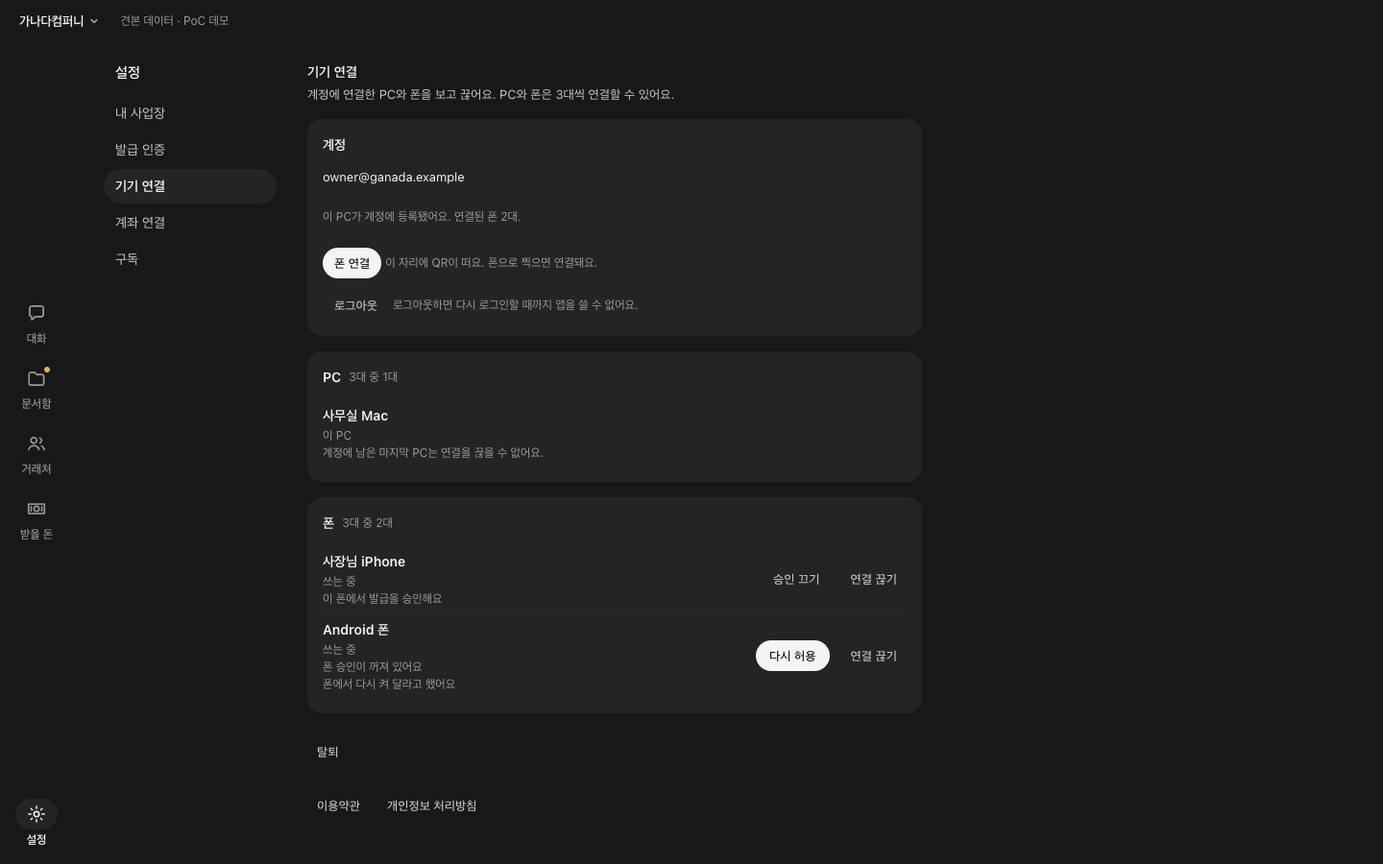
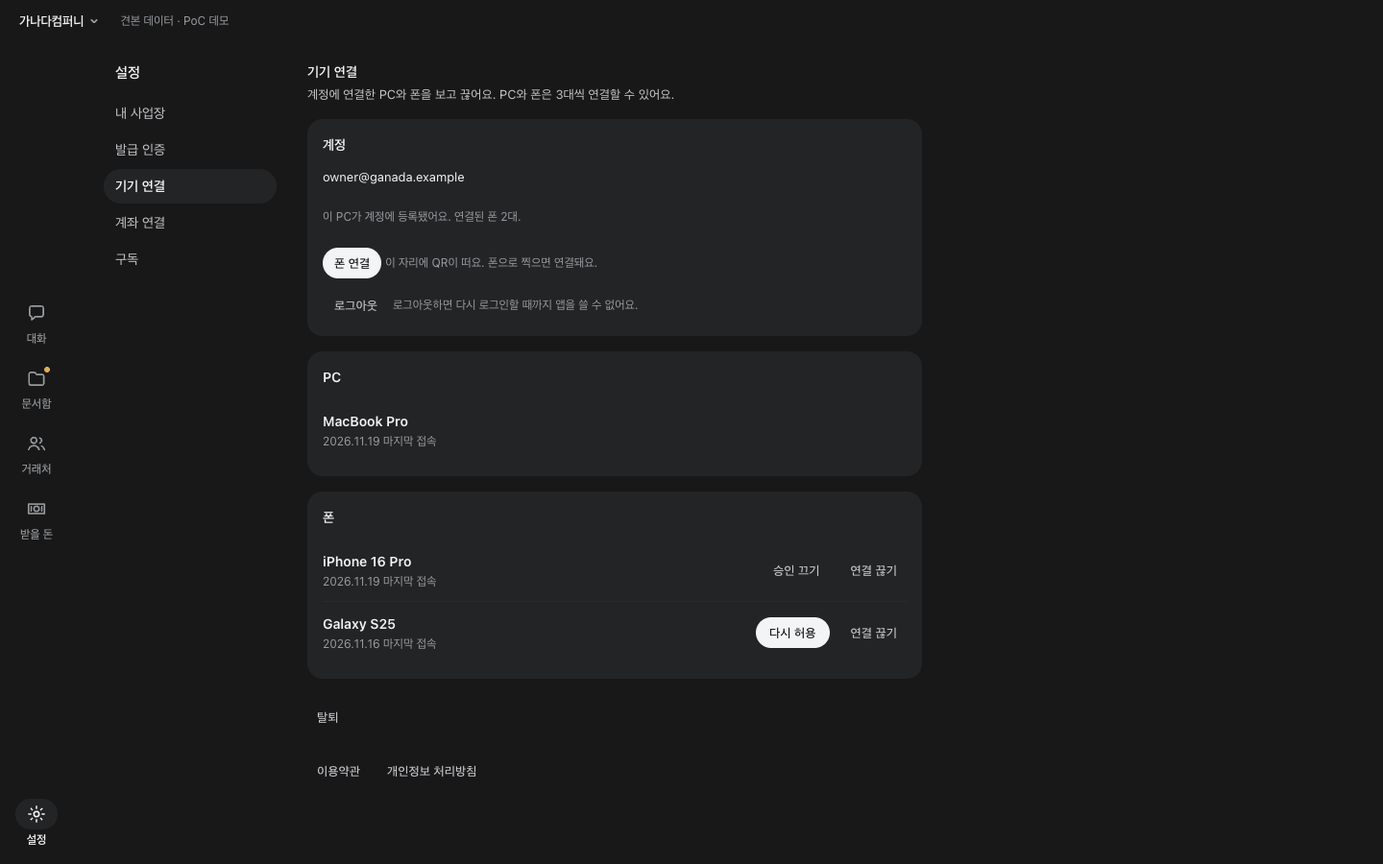
기기 목록: 이름과 마지막 접속일만, 이름은 모델 이름으로
- 줄마다 기기 이름(모델 이름) + 'YYYY.MM.DD 마지막 접속'. '쓰는 중'·'이 PC'·승인 상태 글·개수는 뺐다(단추는 그대로)
- 계정 서비스 v11: devices.last_seen_at(널 허용 칸 추가). 기기 토큰을 받을 때 적고(10분 간격), 본문 model이 있으면 기기 이름을 고친다
- 목록 API에 lastSeenAt, PC는 Mac이면 system_profiler의 모델 이름(예: MacBook Pro)을 알린다
- Supabase 단계 2026111900(계정 011), 가시성 표·README 갱신, 시험 추가

diff --git a/poc/apps/desktop/static/shell/shell-devices.js b/poc/apps/desktop/static/shell/shell-devices.js
@@ -40,6 +40,14 @@ const kindName = (d) => (d.role === 'desktop' ? (d.platform === 'macos' ? 'Mac' 
  * 상태 한 줄(폰 앱과 같은 말). linking: 이 기기에 열린 새 PC 연결 요청이 있다(pclink.list에 같은 deviceId, 끝나지 않은 단계).
  * 새 PC는 로그인하면 목록에 먼저 오르고(active) 금고 키를 받기 전까지 요청이 열려 있다. 그동안 '쓰는 중'이 아니라 '연결하는 중'이다.
  */
+/** "2026.11.19 마지막 접속"(오늘이어도 날짜로). 모르면 null. */
+export const lastSeenText = (at) => {
+  if (!Number.isFinite(at)) return null;
+  const t = new Date(at);
+  return `${t.getFullYear()}.${String(t.getMonth() + 1).padStart(2, '0')}.${String(t.getDate()).padStart(2, '0')} 마지막 접속`;
+};
+
+/** 줄 아래 보조 글씨 하나(2026-11-19 대표: 기기 이름과 마지막 접속일만). 연결 중이거나 끊기 예약된 PC만 그 상태를 쓴다. */
 export function deviceSub(d, now, linking = false) {
   if (d.state === 'pending' || linking) return '연결하는 중';
   if (d.state === 'suspended') {
@@ -47,7 +55,7 @@ export function deviceSub(d, now, linking = false) {
     const days = Math.ceil((d.deleteAfter - now) / DAY);
     return days <= 0 ? '곧 목록에서 빠져요' : `연결을 끊었어요. ${days}일 뒤 목록에서 빠져요`;
   }
-  return d.self ? '이 PC' : '쓰는 중';
+  return lastSeenText(d.self ? now : d.lastSeenAt);
 }
 
 /** 목록에 보일 기기: 끊었거나 막아 둔 폰은 바로 뺀다(PC는 새로 붙은 PC가 밀어내지 못하게 남는 날짜를 보인다). */
@@ -226,9 +234,8 @@ export function createDevices(ctx) {
     const linking = s.reqs.some((x) => x.deviceId === d.deviceId && x.stage !== 'done');
     const sub = deviceSub(d, Date.now(), linking);
     const attrs = { 'data-device': d.deviceId, 'data-device-state': linking ? 'linking' : d.state, ...(d.self ? { 'data-device-self': '' } : {}) };
-    // 폰 승인 상태(이 PC와 연결한 폰만): 켜짐 → [승인 끄기], 꺼 둠 → [다시 허용]
+    // 폰 승인 상태(이 PC와 연결한 폰만): 켜짐 → [승인 끄기], 꺼 둠 → [다시 허용]. 상태 글은 두지 않는다(단추로만 드러난다)
     const px = d.role === 'mobile' && d.state === 'active' ? d.approval : undefined;
-    const pxSub = px === 'on' ? ['이 폰에서 발급을 승인해요'] : px === 'paused' ? ['폰 승인이 꺼져 있어요'] : px === 'asked' ? ['폰 승인이 꺼져 있어요', '폰에서 다시 켜 달라고 했어요'] : [];
     const pxAct =
       px === 'on'
         ? btn('승인 끄기', () => set({ pxConfirm: d.deviceId, confirm: null, msg: null }), 'sx-btn-quiet', { disabled: s.busy, 'data-act': 'px-off-open' })
@@ -242,7 +249,7 @@ export function createDevices(ctx) {
       act = btn('연결 끊기', () => set({ confirm: d.deviceId, pxConfirm: null, msg: null }), 'sx-btn-quiet', { 'data-act': 'device-unlink-open' });
     }
     if (px) attrs['data-px'] = px;
-    return row(attrs, name, d.self && activePcs <= 1 ? [sub, LAST_PC] : [sub, ...pxSub], d.state === 'suspended', pxAct, act);
+    return row(attrs, name, sub, d.state === 'suspended', pxAct, act);
   }
 
   function group(title, list, activePcs, role) {
@@ -253,7 +260,7 @@ export function createDevices(ctx) {
     return h(
       'article',
       { class: 'sx-card dev-group', 'data-device-group': role, ...(full ? { 'data-device-full': '' } : {}) },
-      h('div', { class: 'sx-card-hd' }, h('h2', { class: 'sx-card-title' }, title), h('span', { class: 'sx-meta', 'data-device-count': String(list.length) }, `${MAX_PER_ROLE}대 중 ${list.length}대`)),
+      h('div', { class: 'sx-card-hd', 'data-device-count': String(list.length) }, h('h2', { class: 'sx-card-title' }, title)),
       list.length ? h('div', { class: 'dev-rows' }, ...list.map((d) => deviceRow(d, activePcs, d.deviceId === firstPaused))) : h('p', { class: 'sx-body-sm is-muted' }, role === 'mobile' ? '아직 연결한 폰이 없어요. 위의 [폰 연결]로 연결해요.' : '연결한 PC가 없어요.'),
       full ? h('p', { class: 'sx-meta', 'data-device-full-note': '' }, FULL_NOTE) : null,
     );

diff --git a/poc/services/account/src/service.ts b/poc/services/account/src/service.ts
@@ -113,6 +113,8 @@ interface DeviceRow {
   email_hold_until: number | null;
   delete_after: number | null;
   revoke_record: string | null;
+  /** 마지막으로 기기 토큰을 받은 시각(v11) */
+  last_seen_at: number | null;
 }
 
 export interface AccountDeps {
@@ -1340,6 +1342,7 @@ export class AccountService {
       Vx: d.vx,
       holdUntil: d.state === 'pending' ? d.email_hold_until : null,
       deleteAfter: d.delete_after,
+      lastSeenAt: d.last_seen_at == null ? null : Number(d.last_seen_at),
     }));
   }
 
@@ -1955,7 +1958,7 @@ export class AccountService {
    * `want`가 있으면 그 범위만 준다(ADR-040 결정 1: 엔진용 gateway 전용 토큰 등). 빈 배열·모르는 이름·중복은 요청 스키마가 먼저 거부하고,
    * 역할 범위의 부분집합이 아니면 여기서(검증된 기기 기록으로) 거부한다. 발급마다 이벤트 이름에 역할·범위를 남긴다(ID·토큰 없음).
    */
-  async issueDeviceToken(c: SignedCert, dpop: string | undefined, htu: string, onVerified?: () => void | Promise<void>, want?: readonly Scope[]): Promise<{ token: string; expiresAt: number; scopes: string[] }> {
+  async issueDeviceToken(c: SignedCert, dpop: string | undefined, htu: string, onVerified?: () => void | Promise<void>, want?: readonly Scope[], model?: string): Promise<{ token: string; expiresAt: number; scopes: string[] }> {
     const d = await this.db.one<DeviceRow & { aik_pub: string | null }>('SELECT d.*, a.aik_pub FROM devices d JOIN accounts a ON a.id = d.account_id WHERE d.device_id = $1 AND a.status = $2', [c.cert.device_id, 'active']);
     if (!d || !d.aik_pub) fail('account.cert_invalid');
     const now = this.now();
@@ -1981,9 +1984,21 @@ export class AccountService {
         this.d.onEvent?.('account.gateway_scope_withheld');
       } else tier = ent;
     }
+    await this.seen(d!, now, model);
     const { token, claims } = this.d.tokens.issue({ acc: d!.account_id, dev: d!.device_id, role: d!.role, scp: scopes, cnf: d!.vx, ...(tier ? { tier } : {}) }, now);
     this.d.onEvent?.(`account.device_token_issued.${d!.role}.${want && scopes.length < roleScopes.length ? scopes.join('-') : 'all'}`);
     return { token, expiresAt: claims.exp, scopes };
+  }
+
+  /**
+   * 기기 목록의 "마지막 접속"과 모델 이름(2026-11-19 대표: 목록에는 이름과 마지막 접속일만). 토큰을 받을 때 적는다.
+   * 10분 안에 다시 받으면 시각은 쓰지 않는다(날짜만 보인다). 모델 이름은 글자를 다듬어 달라졌을 때만 바꾼다(기기 이름을 사람이 바꾸는 기능은 없다).
+   */
+  private async seen(d: DeviceRow, now: number, model?: string): Promise<void> {
+    const m = model?.replace(/[\p{Cc}\p{Cf}]/gu, '').trim().slice(0, 40) || null;
+    const rename = m !== null && m !== d.name;
+    if (!rename && d.last_seen_at != null && now - Number(d.last_seen_at) < DEVICE.lastSeenWriteMs) return;
+    await this.db.run('UPDATE devices SET last_seen_at = $1, name = $2 WHERE device_id = $3', [now, rename ? m : d.name, d.device_id]);
   }
 
   // ---------- 프로필 슬롯·사업자 HMAC(B-28) ----------

diff --git a/poc/apps/desktop/src/remote-account.ts b/poc/apps/desktop/src/remote-account.ts
@@ -194,6 +194,8 @@ export interface DesktopAccountOptions {
   platform: 'windows' | 'macos';
   /** 계정 기기 목록에 보이는 이름(40자). 사람 이름이 들어가지 않게 진입점이 고른다. */
   deviceName: string;
+  /** 이 PC의 모델 이름(예: "MacBook Pro"). 기기 토큰을 받을 때 알려 계정 기기 목록의 이름으로 쓴다(2026-11-19 대표). 없으면 알리지 않는다. */
+  model?: () => Promise<string | undefined>;
   /** false면 폰 연결을 닫는다(운영 룸 호스트·폰 앱 출시 전, remote-wiring.ts PROD_PHONE_PAIRING). 기본 true. */
   pairing?: boolean;
   /** 새 PC 연결의 금고 연산(ADR-048 결정 3). 없으면 다른 PC가 이미 있는 계정에는 붙지 못한다(account.aik_already_pinned). */
@@ -598,7 +600,7 @@ export class DesktopAccount {
   /** 기기 범위 호출(토큰·DPoP). 등록 전이면 null. */
   device(): DeviceSession | null {
     if (!this.#id || !this.#o.client) return null;
-    if (!this.#device) this.#device = new DeviceSession(this.#o.client, this.#o.keys, this.#o.identity, this.#id, this.#now, (id) => (this.#id = id));
+    if (!this.#device) this.#device = new DeviceSession(this.#o.client, this.#o.keys, this.#o.identity, this.#id, this.#now, (id) => (this.#id = id), this.#o.model);
     return this.#device;
   }
 
@@ -822,14 +824,15 @@ export class DeviceSession {
   #gwInflight: Promise<string> | null = null;
   #onChange: (id: RemoteIdentity) => void;
 
-  constructor(client: AccountClient, keys: () => Promise<DesktopKeys>, file: RemoteIdentityFile, id: RemoteIdentity, now: () => number, onChange: (id: RemoteIdentity) => void = () => {}) {
+  constructor(client: AccountClient, keys: () => Promise<DesktopKeys>, file: RemoteIdentityFile, id: RemoteIdentity, now: () => number, onChange: (id: RemoteIdentity) => void = () => {}, model: () => Promise<string | undefined> = async () => undefined) {
     this.#onChange = onChange;
     this.#client = client;
     this.#keys = keys;
     this.#file = file;
     this.#id = id;
     this.#now = now;
-    this.#cache = new DeviceTokenCache(async () => this.#client.deviceToken(await this.#cert(), (await this.#keys()).vd), now);
+    // 모델 이름은 기본 토큰에만 싣는다(기기 목록의 이름, 2026-11-19 대표)
+    this.#cache = new DeviceTokenCache(async () => this.#client.deviceToken(await this.#cert(), (await this.#keys()).vd, undefined, await model()), now);
     this.#gwCache = new DeviceTokenCache(async () => {
       const t = await this.#client.deviceToken(await this.#cert(), (await this.#keys()).vd, GATEWAY_SCOPES);
       // 엔진이 받는 Authorization에는 토큰 원문이 든다. 서버가 범위를 줄이지 않았으면(구 서버 등) 그 토큰을 쓰지 않는다.

diff --git a/poc/apps/desktop/src/remote-cloud.ts b/poc/apps/desktop/src/remote-cloud.ts
@@ -148,7 +148,8 @@ export function cloudPorts(o: CloudPortsOptions): CloudPorts {
       if (x.role !== 'desktop' && x.role !== 'mobile') shape();
       if (!['windows', 'macos', 'ios', 'android'].includes(x.platform as string) || !['pending', 'active', 'suspended', 'revoked'].includes(x.state as string)) shape();
       if (!(x.deleteAfter === null || x.deleteAfter === undefined || int(x.deleteAfter))) shape();
-      return { deviceId: x.deviceId as string, role: x.role as ServerDevice['role'], platform: x.platform as ServerDevice['platform'], name: x.name as string, state: x.state as ServerDevice['state'], registeredAt: x.registeredAt as number, Sx: x.Sx as string, Vx: x.Vx as string, deleteAfter: (x.deleteAfter as number | null | undefined) ?? null };
+      if (!(x.lastSeenAt === null || x.lastSeenAt === undefined || int(x.lastSeenAt))) shape();
+      return { deviceId: x.deviceId as string, role: x.role as ServerDevice['role'], platform: x.platform as ServerDevice['platform'], name: x.name as string, state: x.state as ServerDevice['state'], registeredAt: x.registeredAt as number, Sx: x.Sx as string, Vx: x.Vx as string, deleteAfter: (x.deleteAfter as number | null | undefined) ?? null, lastSeenAt: (x.lastSeenAt as number | null | undefined) ?? null };
     });
   };
   /** 새 PC 연결 우편함 경로. 기기 ID는 UUIDv4만(egress 허용 경로와 같은 모양) */
@@ -235,10 +236,11 @@ export function cloudPorts(o: CloudPortsOptions): CloudPorts {
       if (!isObj(b) || !str(b.deviceId, 64)) shape();
       return { deviceId: (b as { deviceId: string }).deviceId };
     },
-    async deviceToken(cert, dpop, scopes) {
+    async deviceToken(cert, dpop, scopes, model) {
       try {
-        // @sax/remote requestDeviceToken은 본문이 {cert}뿐이다. 범위를 줄일 때만 본문에 scopes를 더한다(DPoP는 인증서에 묶여 본문과 무관).
-        const http: HttpJson = scopes ? (req) => httpJson({ ...req, body: JSON.stringify({ ...(JSON.parse(req.body!) as object), scopes: [...scopes] }) }) : httpJson;
+        // @sax/remote requestDeviceToken은 본문이 {cert}뿐이다. 범위를 줄일 때 scopes를, 모델 이름을 알면 model을 본문에 더한다(DPoP는 인증서에 묶여 본문과 무관).
+        const extra = { ...(scopes ? { scopes: [...scopes] } : {}), ...(model ? { model: model.slice(0, 40) } : {}) };
+        const http: HttpJson = Object.keys(extra).length ? (req) => httpJson({ ...req, body: JSON.stringify({ ...(JSON.parse(req.body!) as object), ...extra }) }) : httpJson;
         return await requestDeviceToken(http, accountOrigin, cert, dpop);
       } catch (e) {
         const code = (e as { code?: unknown }).code;

diff --git a/poc/services/account/src/app.ts b/poc/services/account/src/app.ts
@@ -80,7 +80,8 @@ const V = {
   ),
   op: validator<{ op: AcctOp; aikSig: string }>(signedOpSchema),
   /** scopes(선택): 범위 축소(ADR-040 결정 1). 비어 있지 않고 중복 없는 알려진 범위 이름 */
-  deviceToken: validator<{ cert: SignedCert; scopes?: Scope[] }>(obj({ cert: signedCertSchema, scopes: { type: 'array', minItems: 1, maxItems: ALL_SCOPES.length, uniqueItems: true, items: { enum: [...ALL_SCOPES] } } }, ['cert'])),
+  // model: 기기가 알린 모델 이름(예: "iPhone 16 Pro", "MacBook Pro"). 있으면 목록의 기기 이름을 이것으로 고친다(2026-11-19 대표)
+  deviceToken: validator<{ cert: SignedCert; scopes?: Scope[]; model?: string }>(obj({ cert: signedCertSchema, scopes: { type: 'array', minItems: 1, maxItems: ALL_SCOPES.length, uniqueItems: true, items: { enum: [...ALL_SCOPES] } }, model: { type: 'string', minLength: 1, maxLength: 40 } }, ['cert'])),
   linkId: validator<{ id: string }>(obj({ id: S.uuid4 })),
   // 새 PC 연결 우편함(D08 §4.3). 모양과 크기만 본다. 약속·6자리·서명·봉인문의 진위는 두 PC가 본다
   pcLinkHello: validator<{ hello: { v: 1; device_id: string; Sx: string; Vx: string; Hx: string; commit: string } }>(
@@ -447,7 +448,7 @@ export function accountRouter(o: AccountAppOpts): Router {
     // 검증 전에는 IP 단위만(서명 검증 비용), 기기 단위는 검증 통과 뒤에 센다
     await limit(`devtok-ip:${await ipKey(ctx)}`, DEVICE.deviceTokenAttemptsPerIpHour, MS.H);
     const dpop = ctx.headers.dpop;
-    const out = await svc.issueDeviceToken(b.cert, Array.isArray(dpop) ? undefined : dpop, o.publicOrigin + ctx.path, async () => limit(`devtok:${await devSalt.hash(b.cert.cert.device_id)}`, DEVICE.deviceTokensPerHour, MS.H), b.scopes);
+    const out = await svc.issueDeviceToken(b.cert, Array.isArray(dpop) ? undefined : dpop, o.publicOrigin + ctx.path, async () => limit(`devtok:${await devSalt.hash(b.cert.cert.device_id)}`, DEVICE.deviceTokensPerHour, MS.H), b.scopes, b.model);
     return json(200, out);
   });
 

diff --git a/poc/tests/services-account.test.ts b/poc/tests/services-account.test.ts
@@ -522,6 +522,27 @@ describe('M4-5 계정: AIK 고정·기기 목록·기기 범위 토큰', () => {
     assert.equal((await state(p1.id)).deleteAfter, null);
   });
 
+  it('기기 토큰: 모델 이름을 알리면 기기 이름이 바뀌고 마지막 접속이 적힌다(10분 안에는 다시 쓰지 않는다, 2026-11-19 대표)', async () => {
+    const { pc, s, ps } = await fleet(e, 'seen@example.com', 1);
+    const p1 = ps[0]!;
+    const c1 = cert(pc.aik, p1, e.clock.now() + 90 * D);
+    const tok = (model?: string) => e.req('POST', '/v1/device-tokens', { headers: { dpop: dpop('POST', ORIGIN + '/v1/device-tokens', jcs(c1), p1.V, e.clock.now()) }, body: { cert: c1, ...(model ? { model } : {}) } });
+    const row = async () => ((await e.req('GET', '/v1/devices', { headers: bearer(s) })).json.devices as Array<Record<string, unknown>>).find((d) => d.deviceId === p1.id)!;
+    assert.equal((await row()).lastSeenAt, null);
+    const t0 = e.clock.now();
+    assert.equal((await tok('iPhone 16 Pro\u0007')).status, 200);
+    assert.equal((await row()).name, 'iPhone 16 Pro');
+    assert.equal((await row()).lastSeenAt, t0);
+    e.clock.advance(60_000);
+    assert.equal((await tok()).status, 200);
+    assert.equal((await row()).lastSeenAt, t0, '10분 안에는 시각을 다시 쓰지 않는다');
+    assert.equal((await row()).name, 'iPhone 16 Pro', '모델을 안 알리면 이름은 그대로');
+    e.clock.advance(11 * 60_000);
+    assert.equal((await tok()).status, 200);
+    assert.equal((await row()).lastSeenAt, e.clock.now());
+    assert.equal((await tok('x'.repeat(41))).status, 400);
+  });
+
   it('폐기: 계정의 첫 PC는 가입 첫 주에도 유예 없이 즉시 끊는다(ADR-048 결정 6)', async () => {
     const { pc, d2, ps, state } = await fleet(e, 'rev1@example.com', 1);
     const p1 = ps[0]!;

diff --git a/poc/tests/services-deploy.test.ts b/poc/tests/services-deploy.test.ts
@@ -479,8 +479,8 @@ describe('Supabase 마이그레이션 내보내기', () => {
     // 새 단계는 뒤에 붙는다(이름 순서 = 적용 순서)
     const names = [...out.keys()];
     assert.deepEqual(names, [...names].sort());
-    assert.deepEqual(names.slice(7), ['20261106020100_sax_account.sql', '20261107000100_sax_account.sql', '20261113000100_sax_gateway.sql', '20261116000100_sax_account.sql', '20261116010100_sax_account.sql', '20261116010200_sax_gateway.sql', '20261117000100_sax_account.sql', '20261117010100_sax_account.sql', '20261118000100_sax_account.sql']);
-    assert.deepEqual(SUPABASE_PHASES.map((p) => p.services.map((s) => `${s.name}:${s.versions.from}-${s.versions.to}`)), [['account:1-1', 'gateway:1-1', 'relay:1-1', 'push:1-1'], ['registry:1-1'], ['account:2-2'], ['account:3-3'], ['gateway:2-2'], ['account:4-4'], ['account:5-6', 'gateway:3-3'], ['account:7-8'], ['account:9-9'], ['account:10-10']]);
+    assert.deepEqual(names.slice(7), ['20261106020100_sax_account.sql', '20261107000100_sax_account.sql', '20261113000100_sax_gateway.sql', '20261116000100_sax_account.sql', '20261116010100_sax_account.sql', '20261116010200_sax_gateway.sql', '20261117000100_sax_account.sql', '20261117010100_sax_account.sql', '20261118000100_sax_account.sql', '20261119000100_sax_account.sql']);
+    assert.deepEqual(SUPABASE_PHASES.map((p) => p.services.map((s) => `${s.name}:${s.versions.from}-${s.versions.to}`)), [['account:1-1', 'gateway:1-1', 'relay:1-1', 'push:1-1'], ['registry:1-1'], ['account:2-2'], ['account:3-3'], ['gateway:2-2'], ['account:4-4'], ['account:5-6', 'gateway:3-3'], ['account:7-8'], ['account:9-9'], ['account:10-10'], ['account:11-11']]);
   });
 
   it('비밀번호·키 같은 값은 생성 SQL에 없다', () => {

diff --git a/poc/apps/desktop/src/shell-app.ts b/poc/apps/desktop/src/shell-app.ts
@@ -14,6 +14,7 @@ import { appPaths, defaultAppRoot, FileEventLog } from '@sax/platform';
 import { findInstalledChrome, pageAddress, SESSION_IDLE_REPORT_MS } from '@sax/vault';
 import { execFile } from 'node:child_process';
 import { app, autoUpdater as nativeUpdater, BrowserWindow, clipboard, dialog, ipcMain, Menu, Notification, powerMonitor, powerSaveBlocker, protocol, safeStorage, screen, session, ShareMenu, shell as desktop } from 'electron';
+import { deviceModel } from './device-model.ts';
 import { AccountantPack, isPackMonth, packAsk } from './accountant-pack.ts';
 import { ACTION_TEXT, actionText, issueLocalApproval, kstToday, verifyLocalApproval, verifyLocalAttestation, type LocalApproval } from './approval-gate.ts';
 import { CERT_DOCS_SHOWN, certDocByCode, certInputsFor, type CertDocDef } from './cert-docs.ts';
@@ -1407,6 +1408,8 @@ function wireShell(opts: ShellOptions, fixture: FixtureMode | null, key: Uint8Ar
     pending: new PendingCodeFile(appPaths(root ?? defaultAppRoot()).userData),
     platform: process.platform === 'darwin' ? 'macos' : 'windows',
     deviceName: opts.remote?.deviceName ?? (process.platform === 'darwin' ? 'Mac PC' : 'Windows PC'),
+    // 계정 기기 목록의 이름은 모델 이름으로(예: "MacBook Pro", 2026-11-19 대표). 기기 토큰을 받을 때 알린다
+    model: deviceModel,
     pairing: opts.remote?.pairing !== false,
     // 새 PC 연결(ADR-048 결정 3): 금고의 계정 열쇠 넘기기. 넘겨받은 뒤에는 금고 공개키를 다시 읽는다(AIK가 바뀐다)
     linkVault: async () => linkVaultOf(await keysOf()),

diff --git a/poc/apps/desktop/src/device-model.ts b/poc/apps/desktop/src/device-model.ts
@@ -1,0 +1,25 @@
+// 이 PC의 모델 이름(예: "MacBook Pro"). 기기 토큰을 받을 때 계정 서비스에 알려 기기 목록의 이름으로 쓴다(2026-11-19 대표: 목록에는 기기 이름과 마지막 접속일만).
+// macOS만 읽는다(system_profiler, 한 번만). 다른 OS나 읽지 못하면 undefined(서버는 이름을 그대로 둔다).
+import { execFile } from 'node:child_process';
+
+let cached: Promise<string | undefined> | null = null;
+
+/** system_profiler -json 출력에서 machine_name을 꺼낸다. 글자가 이상하면 undefined. */
+export function parseMacModel(out: string): string | undefined {
+  try {
+    const v = (JSON.parse(out) as { SPHardwareDataType?: Array<{ machine_name?: unknown }> }).SPHardwareDataType?.[0]?.machine_name;
+    if (typeof v !== 'string') return undefined;
+    const m = v.replace(/[\p{Cc}\p{Cf}]/gu, '').trim().slice(0, 40);
+    return m || undefined;
+  } catch {
+    return undefined;
+  }
+}
+
+export function deviceModel(platform: NodeJS.Platform = process.platform): Promise<string | undefined> {
+  if (platform !== 'darwin') return Promise.resolve(undefined);
+  cached ??= new Promise((resolve) => {
+    execFile('/usr/sbin/system_profiler', ['SPHardwareDataType', '-json'], { timeout: 5_000, maxBuffer: 256 * 1024 }, (err, out) => resolve(err ? undefined : parseMacModel(out)));
+  });
+  return cached;
+}

diff --git a/poc/services/shared/src/supabase.ts b/poc/services/shared/src/supabase.ts
@@ -38,6 +38,7 @@ const svc = (name: string, from: number, to: number): ExportService => ({ name, 
  * - 2026111600: 계정 004 탈퇴 7일 유예(accounts.delete_after, F-06)
  * - 2026111601: 계정 005·006 카드 정기결제 빌링키·청약철회 환불 참조(토스페이먼츠 자동결제), 게이트웨이 003 하루 사용 금액(체험·유료 일 한도)
  * - 2026111800: 계정 010 계정 열쇠 보관(key_escrow, ADR-050)
+ * - 2026111900: 계정 011 기기 마지막 접속(devices.last_seen_at, 널 허용 칸 추가만)
  */
 export const SUPABASE_PHASES: readonly ExportPhase[] = [
   { prefix: '2026110600', rolesFile: '20261106000000_sax_roles.sql', limits: true, services: [svc('account', 1, 1), svc('gateway', 1, 1), svc('relay', 1, 1), svc('push', 1, 1)] },
@@ -50,6 +51,7 @@ export const SUPABASE_PHASES: readonly ExportPhase[] = [
   { prefix: '2026111700', rolesFile: null, limits: false, services: [svc('account', 7, 8)] },
   { prefix: '2026111701', rolesFile: null, limits: false, services: [svc('account', 9, 9)] },
   { prefix: '2026111800', rolesFile: null, limits: false, services: [svc('account', 10, 10)] },
+  { prefix: '2026111900', rolesFile: null, limits: false, services: [svc('account', 11, 11)] },
 ];
 
 /** 함수·룸 호스트로 올리는 서비스 전부(이름마다 하나, 처음 나온 단계 순서) */

diff --git a/poc/apps/desktop/src/remote-ports.ts b/poc/apps/desktop/src/remote-ports.ts
@@ -82,7 +82,7 @@ export interface AccountClient {
    * POST /v1/device-tokens: AIK 인증서 + DPoP(Vd) → 15분 토큰. @sax/remote requestDeviceToken과 같다.
    * scopes가 있으면 본문에 실어 그 범위만 달라고 한다(게이트웨이 전용 토큰, ADR-040 예정). 실제로 준 범위는 응답 scopes다.
    */
-  deviceToken(cert: SignedCert, dpop: DpopSigner, scopes?: readonly string[]): Promise<DeviceToken>;
+  deviceToken(cert: SignedCert, dpop: DpopSigner, scopes?: readonly string[], model?: string): Promise<DeviceToken>;
   /** 구독 상태(기기 토큰, 데스크톱만). */
   billing(auth: DeviceAuth): Promise<BillingView>;
   /** POST /v1/billing/checkout(기기 토큰) → 결제 창 주소(계정 origin의 /v1/billing/card?ref=…만 받는다). main이 기본 브라우저로 연다. */
@@ -186,6 +186,8 @@ export interface ServerDevice {
   Vx: string;
   /** 삭제 유예 끝(ms). 없으면 null */
   deleteAfter: number | null;
+  /** 마지막으로 기기 토큰을 받은 시각(ms). 서버가 아직 모르면 null */
+  lastSeenAt: number | null;
 }
 
 /** 서버가 준 공유 기록 줄 하나. deviceId·at(서버가 받은 시각)은 서버 값이고 줄 안의 dev·at과 다를 수 있다(믿는 것은 줄 안의 값). */

diff --git a/poc/tests/services-account-password.test.ts b/poc/tests/services-account-password.test.ts
@@ -812,7 +812,7 @@ describe('ADR-038 마이그레이션 002', () => {
       await migrate(db, 'account', dir);
       await db.run("INSERT INTO accounts (id, email, status, created_at) VALUES ('a1', 'm@example.com', 'active', 1)");
       await db.run("INSERT INTO sessions (token_hash, account_id, auth_method, created_at, expires_at) VALUES ('h1', 'a1', 'passkey', 5, 99)");
-      assert.deepEqual(await migrate(db, 'account', MIGRATIONS_DIR), [2, 3, 4, 5, 6, 7, 8, 9, 10]);
+      assert.deepEqual(await migrate(db, 'account', MIGRATIONS_DIR), [2, 3, 4, 5, 6, 7, 8, 9, 10, 11]);
       assert.deepEqual({ ...(await db.one('SELECT token_hash, account_id, auth_method, created_at, auth_at, expires_at FROM sessions'))! }, { token_hash: 'h1', account_id: 'a1', auth_method: 'passkey', created_at: 5, auth_at: 5, expires_at: 99 });
       await db.run("INSERT INTO sessions (token_hash, account_id, auth_method, created_at, auth_at, expires_at) VALUES ('h2', 'a1', 'refresh', 1, 1, 2)");
       await assert.rejects(db.run("INSERT INTO sessions (token_hash, account_id, auth_method, created_at, auth_at, expires_at) VALUES ('h3', 'a1', 'magic', 1, 1, 2)"));
